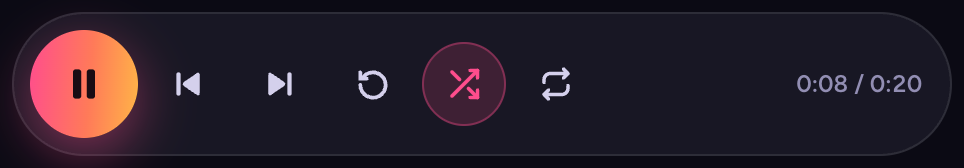
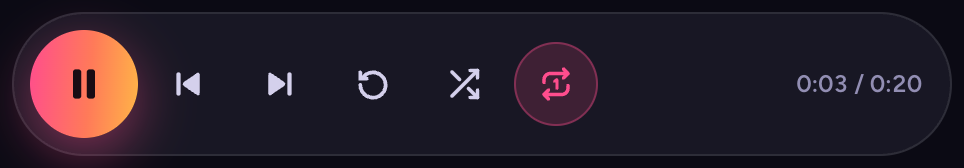
更新文章：Singlish 演示地址换成 singlish.study，新截图与新功能

Changed region(s): [[0.4357, 0.2381, 0.6224, 0.7738], [0.8402, 0.4762, 0.8714, 0.506]]

diff --git a/content/posts/singtheword-vibe-coding.md b/content/posts/singtheword-vibe-coding.md
@@ -2,7 +2,7 @@
 title: "🎵 Singlish：一个 vibe coding 出来的「听歌背单词」应用"
 description: "每个雅思单词都藏在一段流行歌里：Apple Music 官方试听 + 卡拉 OK 同步歌词。从公版儿歌到 YouTube 再到 Apple 试听，推倒重来三次的 vibe coding 实录"
 date: 2026-09-25T02:30:00+08:00
-lastmod: 2026-09-26T10:30:00+08:00
+lastmod: 2026-09-27T10:00:00+08:00
 draft: false
 tags: ["Vibe Coding", "AI", "英语学习", "Web", "项目"]
 categories: ["项目"]
@@ -20,24 +20,27 @@ showToc: true
 
 ## 🎧 它长什么样
 
-<p align=center><img src=/images/singlish/desktop.jpg alt="桌面版：左边是唱片封套一样的单词卡，右边是正在播放的 CD 和卡拉 OK 歌词" style=max-width:100%></p>
+<p align=center><img src=/images/singlish/desktop.jpg alt="桌面版：左边是可按雅思/四级/六级/托福筛选的单词卡，右边是正在播放的 CD、单词卡和卡拉 OK 歌词，歌词里的额外词带粉色高亮和释义" style=max-width:100%></p>
 
-<p align=center><img src=/images/singlish/mobile.jpg alt="手机版：上面是转动的 CD 播放区，下面是单词卡和歌词，左右滑动切换" width=300></p>
+<p align=center><img src=/images/singlish/start.jpg alt="手机版开场：左右滑动换个词，上下滑动换个歌" width=260> <img src=/images/singlish/mobile.jpg alt="手机版：上面是转动的 CD 播放区，下面是单词卡和歌词，右侧竖排的小圆点表示这个词还有别的歌" width=260></p>
 
-**在线体验：** <https://bigjeager.github.io/singlish/>
+**在线体验：** <https://singlish.study/>
 **源码：** [github.com/bigjeager/singlish](https://github.com/bigjeager/singlish)
 
 *（截图里除目标词以外的歌词做了模糊处理，出于版权考虑。实际页面上歌词是完整显示的。）*
 
 ## 🎤 它能干什么
 
-- **100 个雅思词，出自 89 首流行歌、69 位歌手**：Coldplay、Adele、Billie Eilish、Bruno Mars……还有我点名要多放的 **The Weeknd（7 个词）和 Imagine Dragons（8 个词）**；
+- **100 个雅思词，每个词最多 3 首歌**：一共 200 段试听、104 位歌手，Coldplay、Adele、Billie Eilish、Bruno Mars……还有我点名要多放的 **The Weeknd 和 Imagine Dragons**；
+- **一个词，多首歌**：手机上左右滑动换个词，上下滑动换个歌，右侧竖排的小圆点告诉你这个词还有几首；电脑上用 ↑↓ 键或点圆点切换；
+- **按考试筛选**：搜索框旁边有 雅思 / 四级 / 六级 / 托福 的词典标签，搜索栏滚动时一直固定在顶部；
 - **官方原声，没有广告**：播放的是 Apple Music 的 30 秒官方试听，只截唱到这个词的那十几秒；
-- **卡拉 OK 式歌词**：当前行放大，粉到橙的渐变随歌声逐词扫过，唱到目标词时，黄色荧光笔"啪"地弹一下；
+- **卡拉 OK 式歌词**：当前行放大，粉到橙的渐变随歌声逐词扫过，唱到目标词时，黄色荧光笔"啪"地弹一下；同一段歌词里的其他考试词用粉色标出，上方直接显示音标和释义；点任意一行，就从那一行开始唱；
 - **像音乐 App 一样用**：桌面端点卡片就唱，手机端左右滑动，滑到哪张唱哪张；默认一首接一首连着播，还有随机和单曲循环；
 - **单词卡本身**：英式音标（点一下会朗读）、中英释义、雅思常用搭配、雅思分段标签，以及"歌里唱的是 amazing，它是 amaze 的形容词"这类词形说明；
 - **氛围**：整个页面的背景是当前歌曲封面的模糊光晕，换一首歌，页面就换一种颜色；正在播放的封面是一张转动的 CD；
-- **纯静态**：一个 `index.html`，托管在 GitHub Pages，没有后端。
+- **分享海报**：一键生成带二维码的单词海报，直接调用系统分享；
+- **纯静态**：一个 `index.html` 加一份数据文件，托管在 GitHub Pages，绑定了自己的域名 [singlish.study](https://singlish.study/)，没有后端。
 
 <p align=center><img src=/images/singlish/karaoke.jpg alt="单词卡特写：IELTS 分段、音标、释义、搭配，最下面是卡拉 OK 歌词，目标词带黄色荧光笔高亮" width=460></p>
 
@@ -97,15 +100,18 @@ showToc: true
 - **随机播放**：下一首随机挑，优先还没唱过的词；"上一首"按实际听过的顺序往回退；
 - **封面改成 CD**：播放时转，暂停时停在当前角度，和首页卡片上的小唱片呼应；
 - **电脑端播放条被挡住**：右侧整列限制在一屏以内，歌词区自动填满剩余高度；
-- **歌词溢出**：当前行放大 6% 以后，长句右边会被裁掉几像素。修法是所有行都按"100% ÷ 1.06"的宽度换行，放大后刚好填满。然后把 100 个词的每一行都自动检查了一遍。
+- **歌词溢出**：当前行放大 6% 以后，长句右边会被裁掉几像素。修法是所有行都按"100% ÷ 1.06"的宽度换行，放大后刚好填满。然后把 100 个词的每一行都自动检查了一遍；
+- **单曲循环图标里要不要写 1**：要。一般音乐 App 的单曲循环图标中间都有个"1"，没有它，用户分不清是"列表循环"还是"单曲循环"；
+- **手机上点搜索框，页面会突然放大**：iOS 会自动放大字号小于 16px 的输入框，把手机端输入框改成 16px 就好了；
+- **开场按钮**：第一次打开时显示品牌和一句操作提示"左右滑动，换个词 / 上下滑动，换个歌"，顺便完成 iOS 的音频解锁。
 
-<p align=center><img src=/images/singlish/controls.png alt="只有图标的播放条，开启的随机按钮显示为粉色" width=460></p>
+<p align=center><img src=/images/singlish/controls.png alt="只有图标的播放条，开启的单曲循环按钮显示为粉色，图标中间有个 1" width=460></p>
 
 ## ⚙ 几个值得记一笔的技术点
 
 **1. 页面里不存一句歌词。** 数据文件只存"哪首歌、第几秒、试听起点"，歌词在用户打开页面时实时从 LRCLIB 获取，而且只显示目标词前后几句。音频也是直接从 Apple 的 CDN 播放，仓库里没有一个字节的音乐。
 
-**2. 逐词高亮是估算的。** LRC 只有每一行的起止时间，行内每个词的进度按字符长度分配。大多数时候看不出来，偶尔会快半拍。
+**2. 逐词高亮是实测的。** LRC 只有每一行的起止时间。最早行内每个词的进度按字符长度估算，偶尔会快半拍；后来换成 whisper large-v3 加 DTW 对齐，拿到每个词真实的起止时间，高亮就跟上歌声了。副歌重复的歌（比如 Apologize）还会让起点对错一整段，所以对齐时优先看这首歌独有的词，并要求听到的词至少一半落在当前行里。
 
 **3. iPhone 的自动播放限制。** iOS 只允许在用户点击的那一刻开始播放音频，滑动不算点击。所以第一次点击时先静音播放一下，把音频"解锁"，之后滑到哪张就能直接播哪张。
 
@@ -120,12 +126,12 @@ showToc: true
 **反馈越具体，迭代越快。** "太正式了""字太丑了""这个按钮看不懂"这种一句话反馈，AI 基本一轮就能改到位，还会顺手把同类问题一起检查掉。
 
 **还没做的：**
-- **搜任意单词，立刻生成卡片**：离线把几千首歌的试听都对齐、建好"单词 → 歌曲 + 时间点"的索引，查询时只做查表；
+- **更大的词库**：已经离线对齐了 3700 多首歌的试听，整理出 1500 多个考试词、2600 多段试听，覆盖四级、六级、托福和雅思，正在打磨中，很快上线；
 - **Apple Music 会员听整首**：接入 MusicKit，会员可以直接用整首歌的时间轴，不再受 30 秒限制，也不需要 whisper。
 
 ## 🔗 链接
 
-- 🎧 Demo：<https://bigjeager.github.io/singlish/>
+- 🎧 Demo：<https://singlish.study/>
 - 🧑💻 源码：<https://github.com/bigjeager/singlish>
 
 音频版权归 Apple 及各唱片公司所有，歌词来自 LRCLIB 社区，版权归原作者。项目仅供学习演示。
